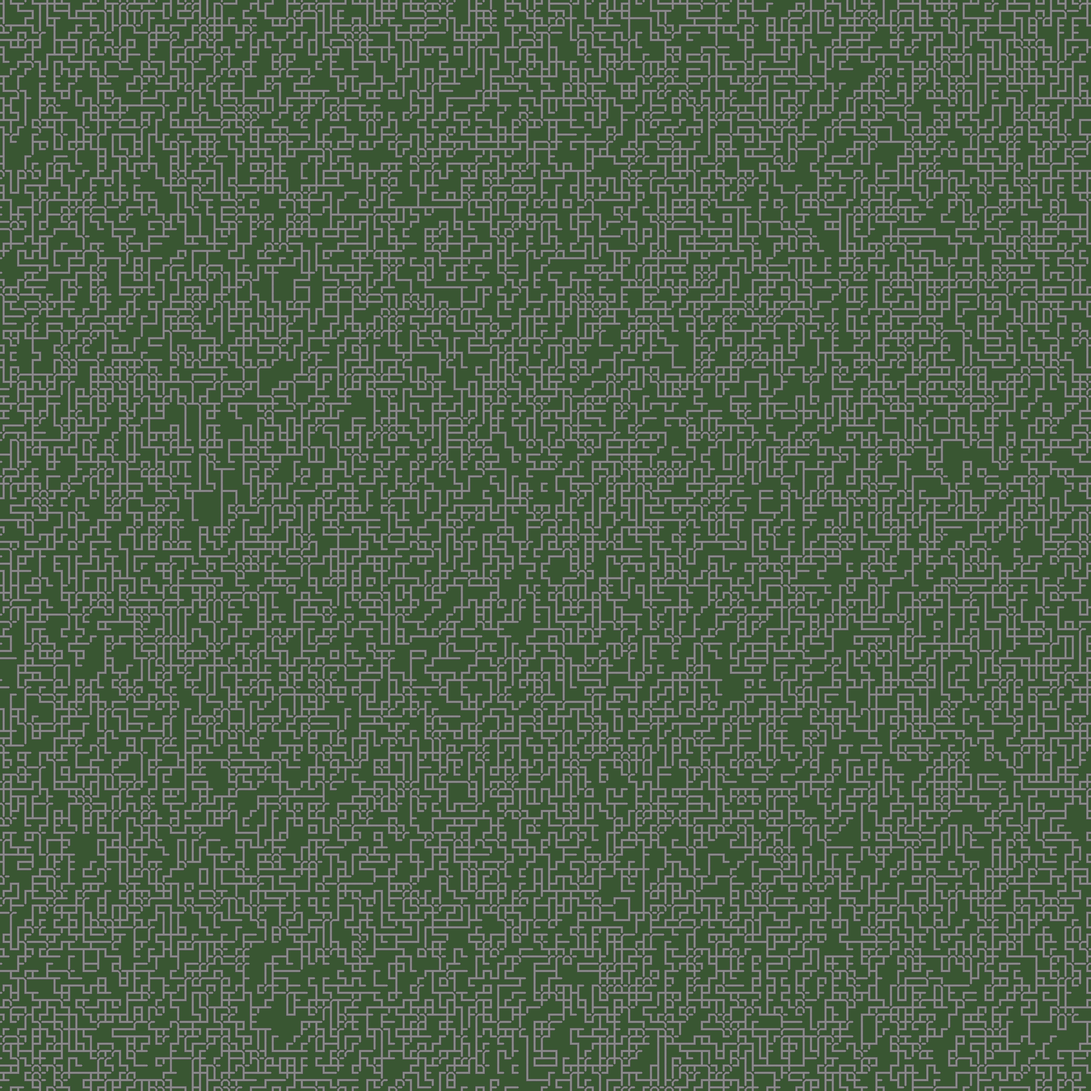
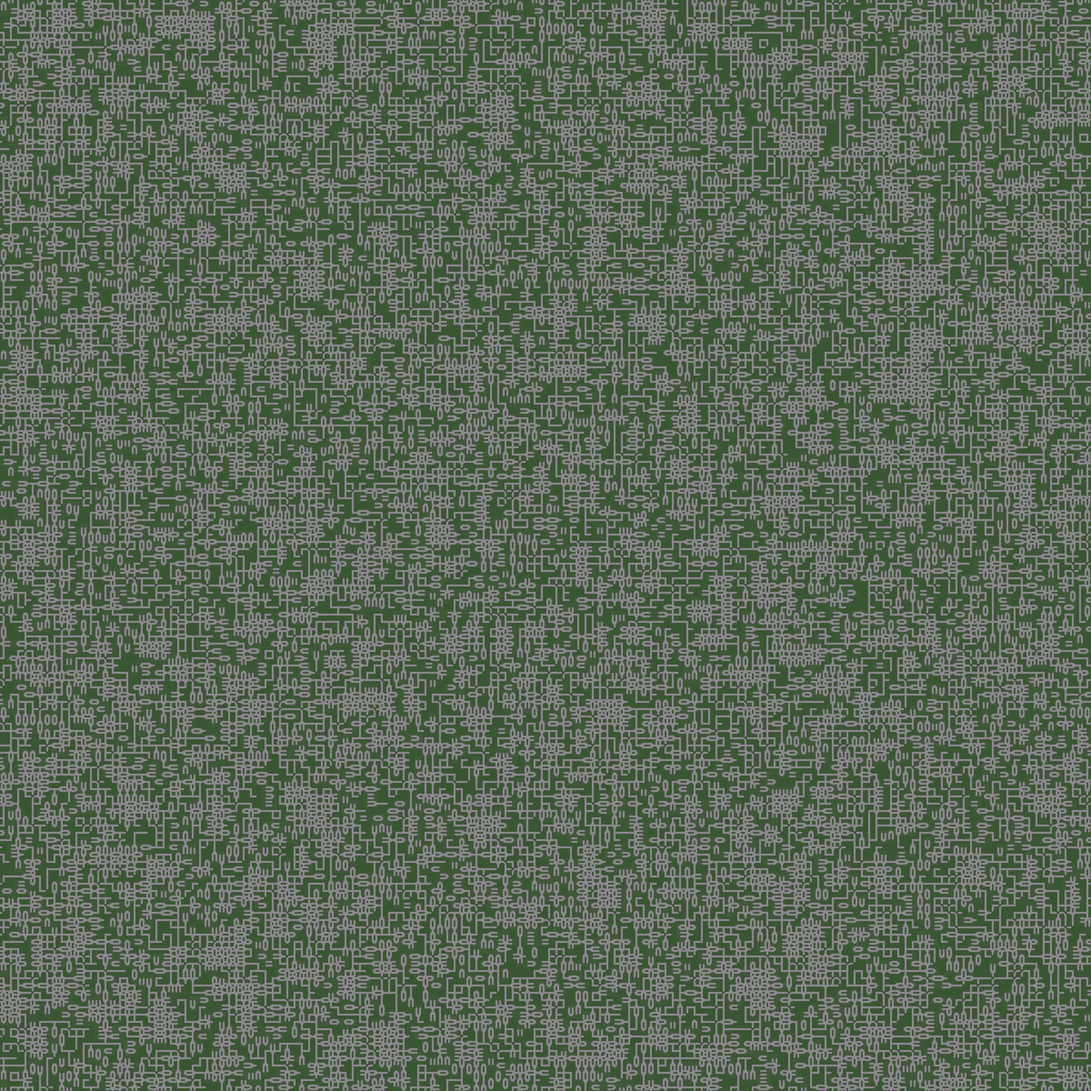
Forks now work and don't crash the program
They seem to work fine now, however there's not enough diversity in terms of what I need done so I gotta add more :<

diff --git a/main.py b/main.py
@@ -65,68 +65,83 @@ def make_image(grid):
 def main(size):
     grid = [[None] * size for i in range(size)]
 
-    blank =     './images/blank.png'
-    Tup =       './images/Tup.png'
-    Tdown =     './images/Tdown.png'
-    Tright =    './images/Tright.png'
-    Tleft =     './images/Tleft.png'
-    crossroad = './images/crossroads.png'
-    PVc =       './images/PipeVertical.png'
-    PHz =       './images/PipeHorizontal.png'
-    BLElbow =   './images/BottomLeftElbow.png'
-    BRElbow =   './images/BottomRightElbow.png'
-    TLElbow =   './images/TopLeftElbow.png'
-    TRElbow =   './images/TopRightElbow.png'
-    D1 =        './images/deadend1.png'
-    D2 =        './images/deadend2.png'
-    D3 =        './images/deadend3.png'
-    D4 =        './images/deadend4.png'
-    fd =        './images/forkdown.png'
-    fu =        './images/forkup.png'
-    fl =        './images/forkleft.png'
-    fr =        './images/forkright.png'
-    fed1 =      './images/forkenddown.png'
-    fed2 =      './images/forkenddown2.png'
-    feu1 =      './images/forkendup.png'
-    feu2 =      './images/forkendup2.png'
-    fer1 =      './images/forkendright.png'
-    fer2 =      './images/forkendright2.png'
-    fel1 =      './images/forkendleft.png'
-    fel2 =      './images/forkendleft2.png'
+    blank =       './images/blank.png'
+    Tup =         './images/Tup.png'
+    Tdown =       './images/Tdown.png'
+    Tright =      './images/Tright.png'
+    Tleft =       './images/Tleft.png'
+    crossroad =   './images/crossroads.png'
+    PVc =         './images/PipeVertical.png'
+    PHz =         './images/PipeHorizontal.png'
+    BLElbow =     './images/BottomLeftElbow.png'
+    BRElbow =     './images/BottomRightElbow.png'
+    TLElbow =     './images/TopLeftElbow.png'
+    TRElbow =     './images/TopRightElbow.png'
+    D1 =          './images/deadend1.png'
+    D2 =          './images/deadend2.png'
+    D3 =          './images/deadend3.png'
+    D4 =          './images/deadend4.png'
+    fd =          './images/forkdown.png'
+    fu =          './images/forkup.png'
+    fl =          './images/forkleft.png'
+    fr =          './images/forkright.png'
+    fed1 =        './images/forkenddown.png'
+    fed2 =        './images/forkenddown2.png'
+    feu1 =        './images/forkendup.png'
+    feu2 =        './images/forkendup2.png'
+    fer1 =        './images/forkendright.png'
+    fer2 =        './images/forkendright2.png'
+    fel1 =        './images/forkendleft.png'
+    fel2 =        './images/forkendleft2.png'
+    spiderdown =  './images/spiderdown.png'
+    spiderup =    './images/spiderup.png'
+    spiderleft =  './images/spiderleft.png'
+    spiderright = './images/spiderright.png'
+    fishdown =    './images/fishdown.png'
+    fishup =      './images/fishup.png'
+    fishleft =    './images/fishleft.png'
+    fishright =   './images/fishright.png'
 
     # Blank  = 0
     # Normal = 1
     lookup = {
-        # name  :     N  E  S  W
-        'blank' :    {'image': blank,     'polarity': [0, 0, 0, 0]},
-        'Tup':       {'image': Tup,       'polarity': [1, 1, 0, 1]},
-        'Tdown':     {'image': Tdown,     'polarity': [0, 1, 1, 1]},
-        'Tright':    {'image': Tright,    'polarity': [1, 1, 1, 0]},
-        'Tleft':     {'image': Tleft,     'polarity': [1, 0, 1, 1]},
-        'BLElbow':   {'image': BLElbow,   'polarity': [0, 0, 1, 1]},
-        'BRElbow':   {'image': BRElbow,   'polarity': [0, 1, 1, 0]},
-        'TLElbow':   {'image': TLElbow,   'polarity': [1, 0, 0, 1]},
-        'TRElbow':   {'image': TRElbow,   'polarity': [1, 1, 0, 0]},
-        'crossroad': {'image': crossroad, 'polarity': [1, 1, 1, 1]},
-        'PHz':       {'image': PHz,       'polarity': [0, 1, 0, 1]},
-        'PVc':       {'image': PVc,       'polarity': [1, 0, 1, 0]},
-        'D1':        {'image': D1,        'polarity': [1, 0, 0, 1]},
-        'D2':        {'image': D2,        'polarity': [0, 0, 0, 1]},
-        'D3':        {'image': D3,        'polarity': [1, 1, 1, 1]},
-        'D4':        {'image': D4,        'polarity': [1, 1, 1, 1]}
-        # 'fd':        {'image': fd,        'polarity': [1, 0, 2, 0]},
-        # 'fu':        {'image': fu,        'polarity': [2, 0, 1, 0]},
-        # 'fl':        {'image': fl,        'polarity': [0, 1, 0, 2]},
-        # 'fr':        {'image': fr,        'polarity': [0, 2, 0, 1]},
-        # 'fed1':      {'image': fed1,      'polarity': [0, 0, 2, 0]},
-        # 'fed2':      {'image': fed2,      'polarity': [0, 0, 2, 0]},
-        # 'feu1':      {'image': feu1,      'polarity': [2, 0, 0, 0]},
-        # 'feu2':      {'image': feu2,      'polarity': [2, 0, 0, 0]},
-        # 'fer1':      {'image': fer1,      'polarity': [0, 2, 0, 0]},
-        # 'fer2':      {'image': fer2,      'polarity': [0, 2, 0, 0]},
-        # 'fel1':      {'image': fel1,      'polarity': [0, 0, 0, 2]},
-        # 'fel2':      {'image': fel2,      'polarity': [0, 0, 0, 2]}
-
+        # name  :  N  E  S  W
+        'blank' :      {'image': blank,       'polarity': [0, 0, 0, 0]},
+        'Tup':         {'image': Tup,         'polarity': [1, 1, 0, 1]},
+        'Tdown':       {'image': Tdown,       'polarity': [0, 1, 1, 1]},
+        'Tright':      {'image': Tright,      'polarity': [1, 1, 1, 0]},
+        'Tleft':       {'image': Tleft,       'polarity': [1, 0, 1, 1]},
+        'BLElbow':     {'image': BLElbow,     'polarity': [0, 0, 1, 1]},
+        'BRElbow':     {'image': BRElbow,     'polarity': [0, 1, 1, 0]},
+        'TLElbow':     {'image': TLElbow,     'polarity': [1, 0, 0, 1]},
+        'TRElbow':     {'image': TRElbow,     'polarity': [1, 1, 0, 0]},
+        'crossroad':   {'image': crossroad,   'polarity': [1, 1, 1, 1]},
+        'PHz':         {'image': PHz,         'polarity': [0, 1, 0, 1]},
+        'PVc':         {'image': PVc,         'polarity': [1, 0, 1, 0]},
+        'D1':          {'image': D1,          'polarity': [1, 0, 0, 1]},
+        'D2':          {'image': D2,          'polarity': [0, 0, 0, 1]},
+        'D3':          {'image': D3,          'polarity': [1, 1, 1, 1]},
+        'D4':          {'image': D4,          'polarity': [1, 1, 1, 1]},
+        'fd':          {'image': fd,          'polarity': [1, 0, 2, 0]},
+        'fu':          {'image': fu,          'polarity': [2, 0, 1, 0]},
+        'fl':          {'image': fl,          'polarity': [0, 1, 0, 2]},
+        'fr':          {'image': fr,          'polarity': [0, 2, 0, 1]},
+        'fed1':        {'image': fed1,        'polarity': [0, 0, 2, 0]},
+        'fed2':        {'image': fed2,        'polarity': [0, 0, 2, 0]},
+        'feu1':        {'image': feu1,        'polarity': [2, 0, 0, 0]},
+        'feu2':        {'image': feu2,        'polarity': [2, 0, 0, 0]},
+        'fer1':        {'image': fer1,        'polarity': [0, 2, 0, 0]},
+        'fer2':        {'image': fer2,        'polarity': [0, 2, 0, 0]},
+        'fel1':        {'image': fel1,        'polarity': [0, 0, 0, 2]},
+        'fel2':        {'image': fel2,        'polarity': [0, 0, 0, 2]},
+        'spiderdown':  {'image': spiderdown,  'polarity': [1, 2, 2, 2]},
+        'spiderup':    {'image': spiderup,    'polarity': [2, 2, 1, 2]},
+        'spiderleft':  {'image': spiderleft,  'polarity': [2, 1, 2, 2]},
+        'spiderright': {'image': spiderright, 'polarity': [2, 2, 2, 1]},
+        'fishdown':    {'image': fishdown,    'polarity': [1, 1, 2, 1]},
+        'fishup':      {'image': fishup,      'polarity': [2, 1, 1, 1]},
+        'fishleft':    {'image': fishleft,    'polarity': [1, 1, 1, 2]},
+        'fishright':   {'image': fishright,   'polarity': [1, 2, 1, 1]}
     }
 
     fill_grid(grid, lookup)
